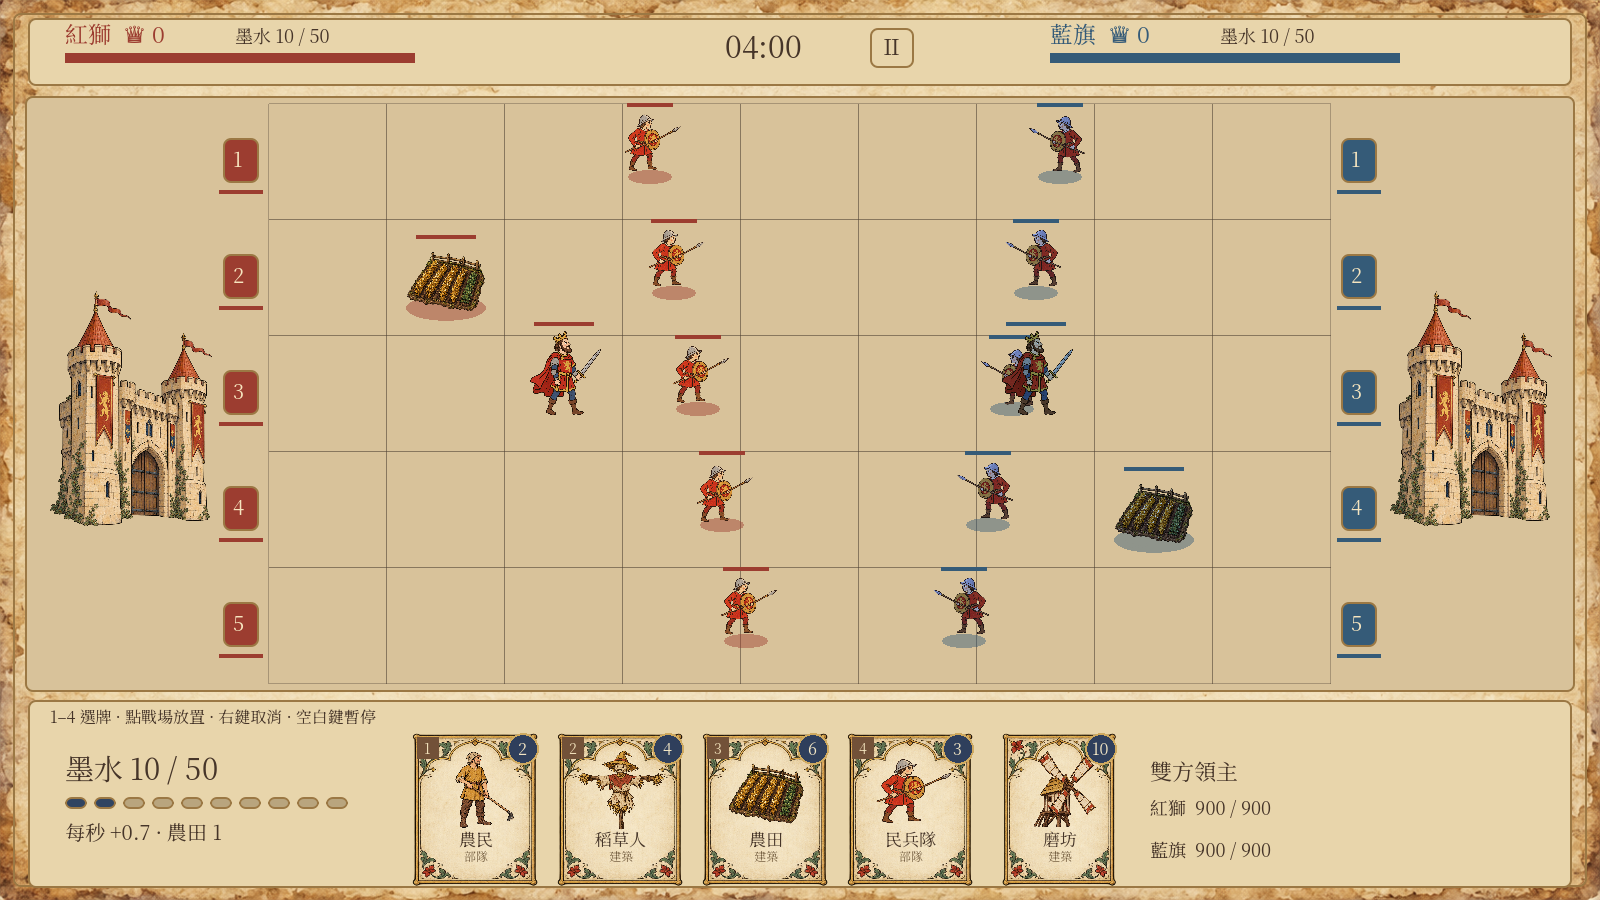
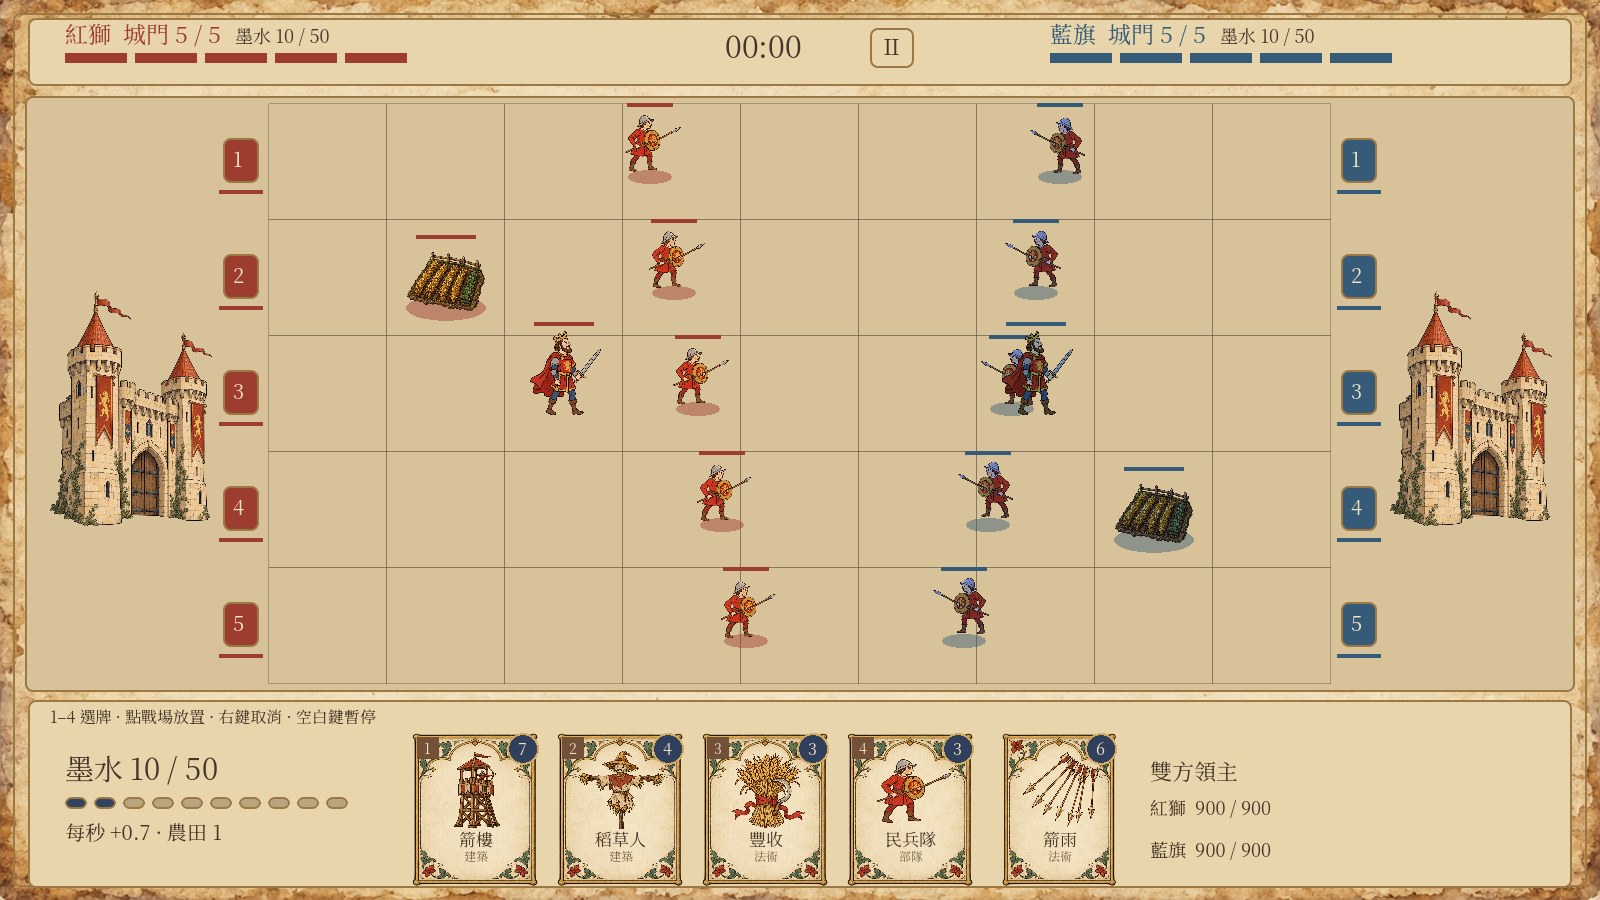
Replace crowns with "an enemy walking in loses"
No crowns, castle HP, time limit or draws. A standing gate stops
attackers; once a gate falls, any enemy troop (ram included) that walks
past the gate line wins the match. Ink speeds up x1.5 at 3:00 and x2 at
5:00. HUD shows each side's five gate bars and an elapsed clock; breach
notices say what is at stake. Producer decision 2026-10-29.

diff --git a/docs/企劃書.md b/docs/企劃書.md
@@ -8,7 +8,8 @@
 >   - **農民是部隊**：一路往前走，經過我方農田時停下來耕地，讓那塊田在一段時間內產得更快。
 >   - **卡牌只分三類：部隊、建築、法術。部隊一律往敵方前進，不會回頭。**
 >   - **領主完全由 AI 接管**（雙方），沒有手動操作。
-> - v4.1：**墨水上限 10 → 50**。墨水數字整體 ×2（費用、回復、產量），讓費用分得更細；出牌冷卻、AI 門檻、介面、主堡血量跟著調整。
+> - v4.1：**墨水上限 10 → 50**。墨水數字整體 ×2（費用、回復、產量），讓費用分得更細；出牌冷卻、AI 門檻、介面跟著調整。
+> - v4.2（2026-10-29）：**拿掉皇冠、主堡血量與時間限制。城門被破後，只要有一名敵兵走進家門就輸**（像植物大戰殭屍）。墨水在 3 分鐘後 ×1.5、5 分鐘後 ×2。
 >
 > 寫給實作者（Codex）與製作人。第一部是企劃，第二部是系統規格，第三部是照順序做的實作任務。
 > 數值是第一版提案，標 〔調〕 的要用模擬工具（T9）量過再定。
@@ -19,7 +20,7 @@
 
 ### 1. 一句話
 
-**一本會動的中世紀手抄本：你用一副 8 張的「村莊牌」出牌——種下會自己冒出墨水的農田、派農民邊走邊耕地、再把墨水花在部隊、建築與法術上，在 4 分鐘內推倒藍旗主堡。雙方領主由 AI 自行作戰。**
+**一本會動的中世紀手抄本：你用一副 8 張的「村莊牌」出牌——種下會自己冒出墨水的農田、派農民邊走邊耕地、再把墨水花在部隊、建築與法術上，打破藍旗的城門、讓一名士兵走進他們家。雙方領主由 AI 自行作戰。**
 
 ### 2. 核心體驗
 
@@ -36,7 +37,7 @@
 ### 3. 目標玩家與一局長度
 
 - 喜歡即時卡牌對戰、植物大戰殭屍式擺位與經營的 PC 玩家。
-- 一局 **4 分鐘**，最後 1 分鐘墨水回復 ×1.5；平手進入 2 分鐘加時（×2）。
+- 沒有時間限制；3 分鐘後墨水回復 ×1.5、5 分鐘後 ×2，讓局面一定會往總攻發展。
 - 操作：**只用滑鼠＋數字鍵**——點手牌或按 1–4 選牌，點戰場放置；空白鍵暫停。領主完全由 AI 操作。
 
 ### 4. 核心循環
@@ -52,15 +53,17 @@
 2. **中盤（1–3 分）**：田地開始大量產墨水；派農民順路耕田、用火罐和耕牛劫掠對方田地。
 3. **最後 1 分鐘（×1.5）**：經濟大的一方大量出牌總攻。
 
-### 5. 勝負（皇冠制）
+### 5. 勝負（進家就輸）
 
-- 每攻破對方一扇城門得 1 頂皇冠（最多 5）；拆掉主堡直接勝利（算 5 冠）。
-- 4 分鐘到：皇冠多者勝。平手 → 加時 2 分鐘，先拿到下一頂皇冠者勝；仍平手 → 比主堡剩餘血量百分比；再平手為和局。
-- 結算畫面：雙方皇冠、總產墨水量、種了幾塊田、被燒掉幾塊田、出牌數。
+- 每路一扇城門（600 血）。城門還在時，攻方部隊停在門前攻打它。
+- 城門被打破後，那一路的攻方部隊**不再停下**，繼續往前走；**任何一名敵方部隊走過城門線（走進家門）＝那一方立刻輸**。攻城槌也算。
+- 沒有皇冠、沒有主堡血量、沒有時間限制、沒有和局。
+- 守方的最後防線：在破門那一路前方出兵攔截、蓋箭樓／稻草人、用法術、領主回防。
+- 結算畫面：勝負、時間、總產墨水量、種了幾塊田、被燒掉幾塊田、出牌數、破了幾扇門。
 
 ### 6. 美術與音效方向
 
-- 依美術方向圖：上方 HUD（雙方肖像、皇冠數、**雙方墨水量**、中央時間章）、中央 9×5 棋盤、下方羊皮紙指令匣（**墨水瓶、4 張手牌、下一張預覽**、雙方領主狀態）。
+- 依美術方向圖：上方 HUD（雙方肖像、各方剩幾扇城門、**雙方墨水量**、中央時間章）、中央 9×5 棋盤、下方羊皮紙指令匣（**墨水瓶、4 張手牌、下一張預覽**、雙方領主狀態）。
 - 墨水畫成一個大墨水瓶＋長條：長條分 10 段、每段 5 墨水，旁邊大字顯示「37 / 50」與每秒回復量。農田每產出一滴，田上冒出一滴墨水自動飛向墨水瓶（不用點擊收集）。被耕過的田在加速期間有金色麥穗閃光。
 - 敵方墨水量顯示在上方 HUD（小字），讓玩家能判斷對手是不是在存墨水準備總攻。
 - 卡牌只畫圖、名稱、墨水費用，左上角一個小圖示標類型（部隊＝盾、建築＝屋頂、法術＝羽毛筆）。細節放滑鼠提示。戰場上不放說明文字。
@@ -93,14 +96,14 @@
 | 磨坊 | 同一路的農田產出速度再 +50% |
 | 豐收（法術） | 範圍內農田立刻各冒出 1 滴，並在 8 秒內 ×2 |
 
-- **開局墨水 10，上限 50**；最後 1 分鐘總回復 ×1.5，加時 ×2。
+- **開局墨水 10，上限 50**；3 分鐘後總回復 ×1.5，5 分鐘後 ×2。
 - 農田回本：費用 6 ÷ 0.2/秒 = 30 秒（耕過的話約 20 秒）。
 - **農田沒有數量上限。** 自然限制：
   - 空間：一格只能有一個建築，部署區 3 欄 × 5 路 = 15 格，還要留格子給防守建築。
   - 牌組輪轉：農田卡打出後要再過 4 次出牌才回到手上。
   - 劫掠：農田會被敵方部隊、火罐、耕牛打掉。
   - 上限 50：一般情況不會碰到；碰到時墨水瓶閃一下並提示，多出來的計入結算的「浪費」。
-- 參考：6 塊田 ≈ 1.2 + 基礎 0.5 = 1.7 / 秒（基礎的 3.4 倍）；15 塊田（全滿、沒有任何防守建築）≈ 3.5 / 秒，但花了 90 墨水。一局 4 分鐘光靠基礎約有 130 墨水。T9 模擬要特別看「全種田」會不會穩贏，會的話調農田費用或產量，不要加死上限。
+- 參考：6 塊田 ≈ 1.2 + 基礎 0.5 = 1.7 / 秒（基礎的 3.4 倍）；15 塊田（全滿、沒有任何防守建築）≈ 3.5 / 秒，但花了 90 墨水。前 4 分鐘光靠基礎約有 130 墨水。T9 模擬要特別看「全種田」會不會穩贏，會的話調農田費用或產量，不要加死上限。
 - 存墨水的風險：上限 50 讓玩家能存一大波（約 6–8 張牌）一次打出。對策是出牌冷卻（第 9 節）、城門反擊與箭樓，以及敵方 AI 會看墨水量提前補防（第 14 節）。
 - 雙方規則完全相同。
 
@@ -116,7 +119,7 @@
 
 | 類型 | 放在哪 | 行為 |
 |---|---|---|
-| **部隊** | 我方部署區任一格（破門後該路延伸到第 6 欄）；不佔格，可放在建築上 | 從放置點出生後**一律往敵方前進，不會回頭**。路上遇到前方或身旁攻擊範圍內的敵人就停下來打，打完繼續前進；走到城門停點就打城門／主堡。 |
+| **部隊** | 我方部署區任一格（破門後該路延伸到第 6 欄）；不佔格，可放在建築上 | 從放置點出生後**一律往敵方前進，不會回頭**。路上遇到前方或身旁攻擊範圍內的敵人就停下來打，打完繼續前進；走到城門停點就打城門；城門已破就繼續走進對方家（＝獲勝）。 |
 | **建築** | 我方原始部署區的**空格**（一格一個） | 固定不動，有生命值；會被敵方部隊攻擊。部分建築有存在時間。 |
 | **法術** | 戰場任意位置（包含敵方部署區） | 立即或短延遲生效，沒有實體。 |
 
@@ -133,7 +136,7 @@
 | 草藥婆 | 7 | 1 名 | 140 | 6 / 1.0s | 120 | 32 | 每秒為 120px 內我方部隊回 12 血 |
 | 耕牛 | 7 | 1 頭 | 420 | 20 / 1.2s | 近戰 | 70→30 | 撞到第一個目標造成 120 傷害＋擊退 30px，之後減速；對建築傷害 ×1.5 |
 | 騎士 | 10 | 1 名 | 600 | 40 / 1.2s | 近戰 | 32 | 重甲 |
-| 攻城槌 | 9 | 1 輛 | 420 | 對建築 60 / 2.0s | — | 20 | 不攻擊部隊、不被阻擋，只打建築、城門、主堡 |
+| 攻城槌 | 9 | 1 輛 | 420 | 對建築 60 / 2.0s | — | 20 | 不攻擊部隊、不被阻擋，只打建築與城門；城門已破就直接走進去 |
 
 **建築**
 
@@ -161,7 +164,7 @@
 
 ### 12. 城門與主堡
 
-- 每路城門 600 血〔調〕；破門後該路部隊直接打共用主堡 2500 血〔調〕（上限 50 可以存出大波總攻，主堡比 v4 的 2000 加厚）。
+- 每路城門 600 血〔調〕；破門後該路沒有任何阻擋，敵兵走進來就輸（第 5 節）。
 - 城門會反擊：對 160px 內最近敵方部隊每 1.0 秒 30 傷害〔調〕。部隊不回頭，城門反擊是對付「已經走到門口的敵兵」的第一道防線。
 - 我方城門被攻擊時該路路號閃紅（已實作 `alarm`），破門時提示列通知（已實作）＋畫面震動（新）；我方建築被攻擊時路號閃黃（新）。
 
@@ -202,8 +205,8 @@
 
 ### 15. 戰鬥規則（改動時保持）
 
-- **部隊**：只往前走。目標＝攻擊範圍內（前後都算）最近的敵方單位或建築；有目標就停下來打，沒有就前進；到城門停點就打城門／主堡。**不追擊身後範圍外的敵人。**
-- 優先順序：嘲諷中的稻草人 > 攻擊範圍內的敵方單位／建築 > 領主（54px，限敵方部隊） > 城門 / 主堡 > 前進。攻城槌例外：只打建築與城門。
+- **部隊**：只往前走。目標＝攻擊範圍內（前後都算）最近的敵方單位或建築；有目標就停下來打，沒有就前進；到城門停點就打城門，城門已破就走進去。**不追擊身後範圍外的敵人。**
+- 優先順序：嘲諷中的稻草人 > 攻擊範圍內的敵方單位／建築 > 領主（54px，限敵方部隊） > 城門 > 前進（城門已破＝走進家門）。攻城槌例外：只打建築與城門。
 - 建築與城門：固定，對範圍內最近的敵方部隊攻擊（若有攻擊能力）。
 - 同一路擠在同一點的部隊「只在畫面上」排成一列（`layout_formations`），戰鬥判定用 `pos`。
 - 遠程：射程內有敵人就停下射；箭是實體物件、飛行 0.35 秒，命中才扣血。
@@ -211,7 +214,7 @@
 
 ### 16. 介面（依美術方向圖重做，16:9）
 
-- 上方 HUD：左右肖像＋皇冠數（0–5）＋主堡血條＋該方墨水量（小字）；中央時間章（倒數 4:00，最後 1 分鐘變紅並顯示「墨水 ×1.5」）；暫停鈕在時間章裡。
+- 上方 HUD：左右肖像＋「城門 N / 5」＋五扇城門各自的血條＋該方墨水量（小字）；中央時間章（往上數，墨水加速時變紅並顯示「墨水 ×1.5 / ×2」）；暫停鈕在時間章裡。
 - 戰場：無說明文字；每路一個城門圖示（木門＋旗＋血條），畫面上只有兩座主堡；選牌時才高亮可放的格子。
 - 下方指令匣（左到右）：墨水瓶＋10 段長條（每段 5）＋「37 / 50」＋「每秒 +1.7」＋田地數、4 張手牌＋下一張（卡面墨水數最多兩位數）、雙方領主狀態（肖像、血條、在第幾路、技能冷卻）。
 - 出牌冷卻：4 張手牌上蓋一層 0.8 秒的淡色倒數。
@@ -222,7 +225,7 @@
 - 受擊閃白 0.08 秒、往後推 4px；陣亡 0.3 秒淡出＋墨點。
 - 出牌：卡牌飛向放置點、落地墨水暈開；法術 0.4 秒落下時間。
 - 農田產墨水：墨水滴飛向墨水條＋輕「滴」聲；農民耕地：鋤頭動作＋土塊；田被燒：火焰＋焦痕 5 秒。
-- 破門：震動 0.25 秒、碎木、鐘聲、皇冠飛到 HUD。
+- 破門：震動 0.25 秒、碎木、鐘聲；我方門被破時那一路持續閃紅，直到門口的敵兵被清掉。
 - 特效與震動可在設定裡關閉（為了錄影）。音效 CC0，來源記在 `assets/audio/CREDITS.md`。
 
 ### 18. 開場、牌組、教學、結算
@@ -269,8 +272,8 @@
 - 移除 WASD 操作與技能按鍵；新增藍方領主；兩位共用 `lord.gd`＋`lord_ai.gd`。
 - 驗收：血 < 30% 撤退回血；部署區有敵兵時 3 秒內前往那一路；不進對方原始部署區；固定 seed 可重現。
 
-**T3　比賽時間、皇冠、加時、破門擴區、城門反擊（第 5、7、12 節）**
-- 驗收：4:00 倒數、最後 60 秒 ×1.5；破門 +1 冠且該路部隊可放到第 6 欄（建築仍只能蓋原始區）；平手進加時；城門對 160px 內敵兵造成傷害。
+**T3　勝負（v4.2 已改成進家就輸）、破門擴區、城門反擊（第 5、7、12 節）**
+- 驗收：城門被破後敵兵走過城門線即輸；沒有時限；3/5 分鐘墨水 ×1.5／×2；破門後該路部隊可放到第 6 欄（建築仍只能蓋原始區）；城門對 160px 內敵兵造成傷害。（已完成，見 smoke test）
 
 **T4　敵方出牌 AI（第 14 節）**
 - 移除 `enemy_timer` 固定出兵。決策函式獨立成 `enemy_ai.gd`。
@@ -285,7 +288,7 @@
 - 驗收：選滿 8 張且含農田才能開戰；牌組存在 `user://deck.json`；3 組預設牌組可一鍵套用。
 
 **T7　介面重做（第 16 節）**
-- 依美術方向圖；墨水條、手牌（含類型圖示）、雙方領主狀態、字體；城門圖示與皇冠（需要新素材）。
+- 依美術方向圖；墨水條、手牌（含類型圖示）、雙方領主狀態、字體；城門圖示（需要新素材）。
 - 驗收：重拍 preview.png；戰場內沒有說明文字；主堡只有兩座；畫面上沒有「金幣」字樣。
 
 **T8　打擊感與音效（第 17 節）**
@@ -294,7 +297,7 @@
 **T9　平衡模擬工具＋觀戰模式**
 - `tools/sim.gd`：headless、固定步長 1/60、`--seed`、`--deck-a` / `--deck-b`、`--difficulty`，雙方都由出牌 AI＋領主 AI 對打。
 - 觀戰模式：同一套 AI 在一般畫面上跑（標題畫面可進入），給錄影用。
-- 輸出：皇冠、勝負、時間、每 30 秒雙方墨水回復速度、田地數、浪費的墨水、每張牌使用次數與「造成傷害 / 墨水」。
+- 輸出：勝負、時間、第一次破門時間、每 30 秒雙方墨水回復速度、田地數、浪費的墨水、每張牌使用次數與「造成傷害 / 墨水」。
 - 只跑一次就回報，不要反覆長批次調數字；把建議數值列給製作人決定。
 - 目標：三組預設牌組互打勝率都在 40–60%；「向日葵流」在前 60 秒被壓時不能必輸、也不能穩贏；沒有任何一張牌的「傷害 / 墨水」超過平均 2 倍；平均每局「浪費」墨水 < 5%（太高代表上限或產量不對）；「存到 50 一次倒出」的打法勝率不能比平均高 10% 以上（太高就拉長出牌冷卻）。若全種田太強，調農田費用或產量，**不要加數量上限**。
 
